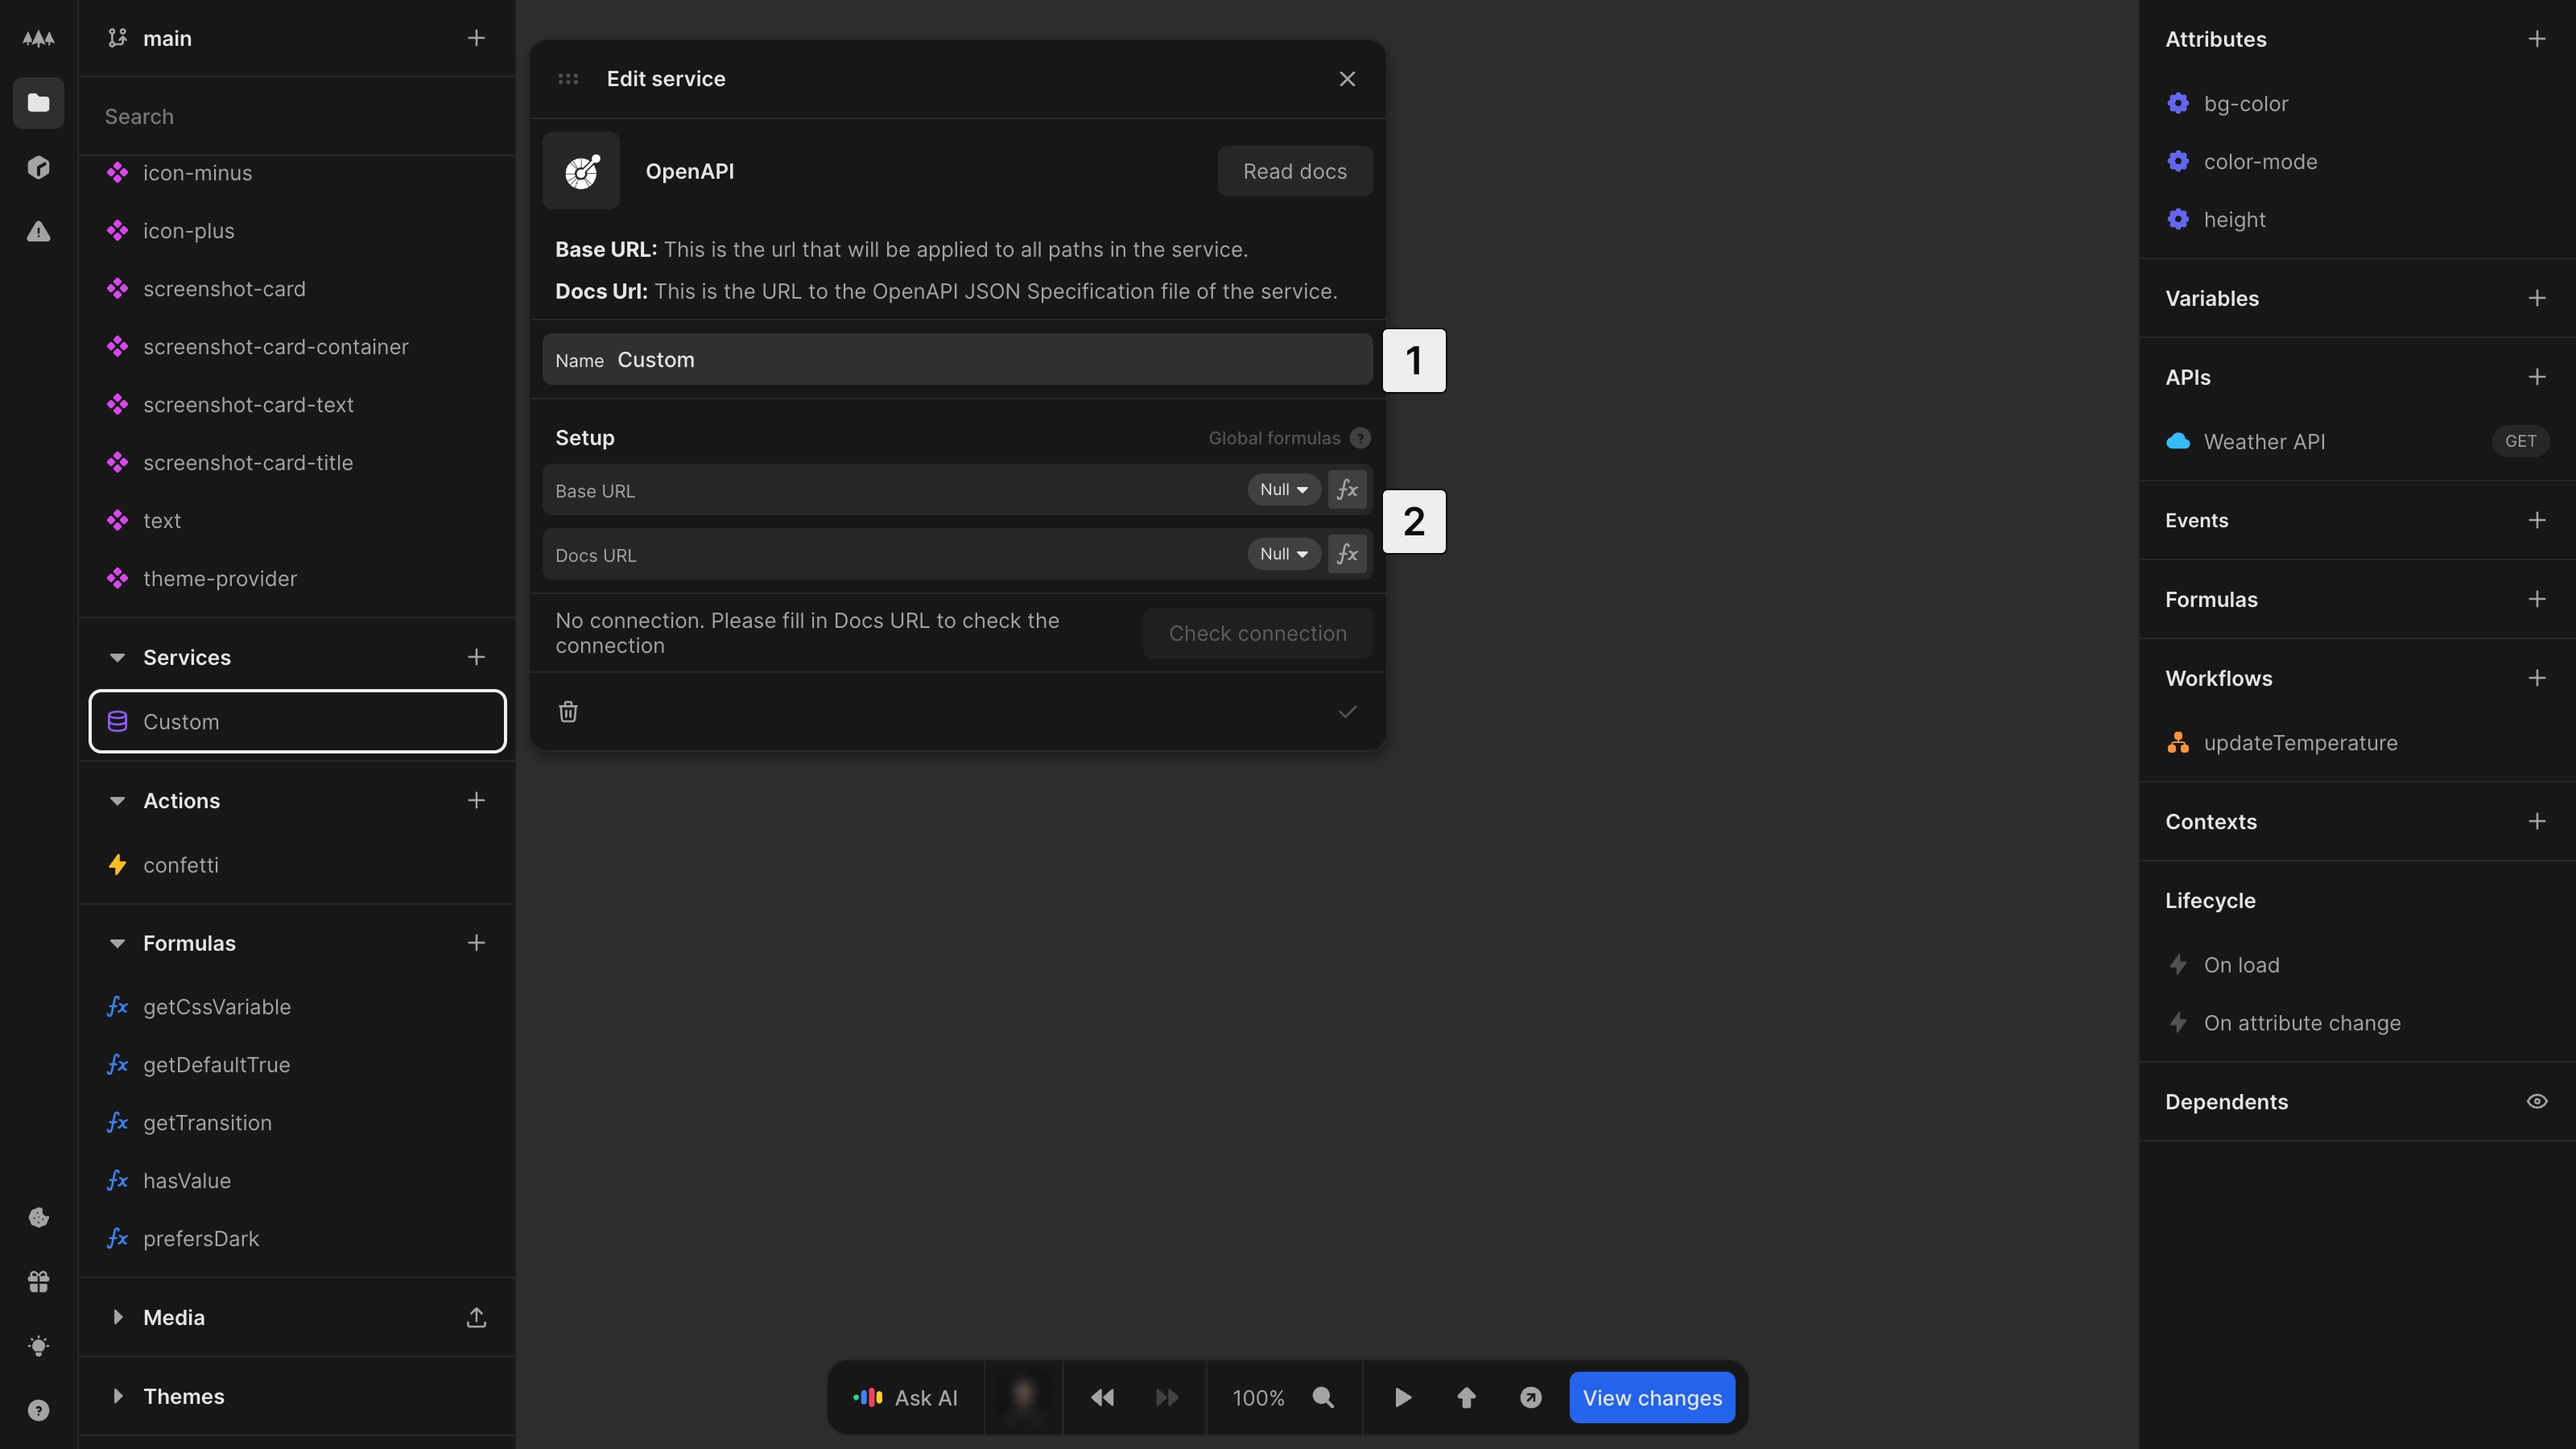
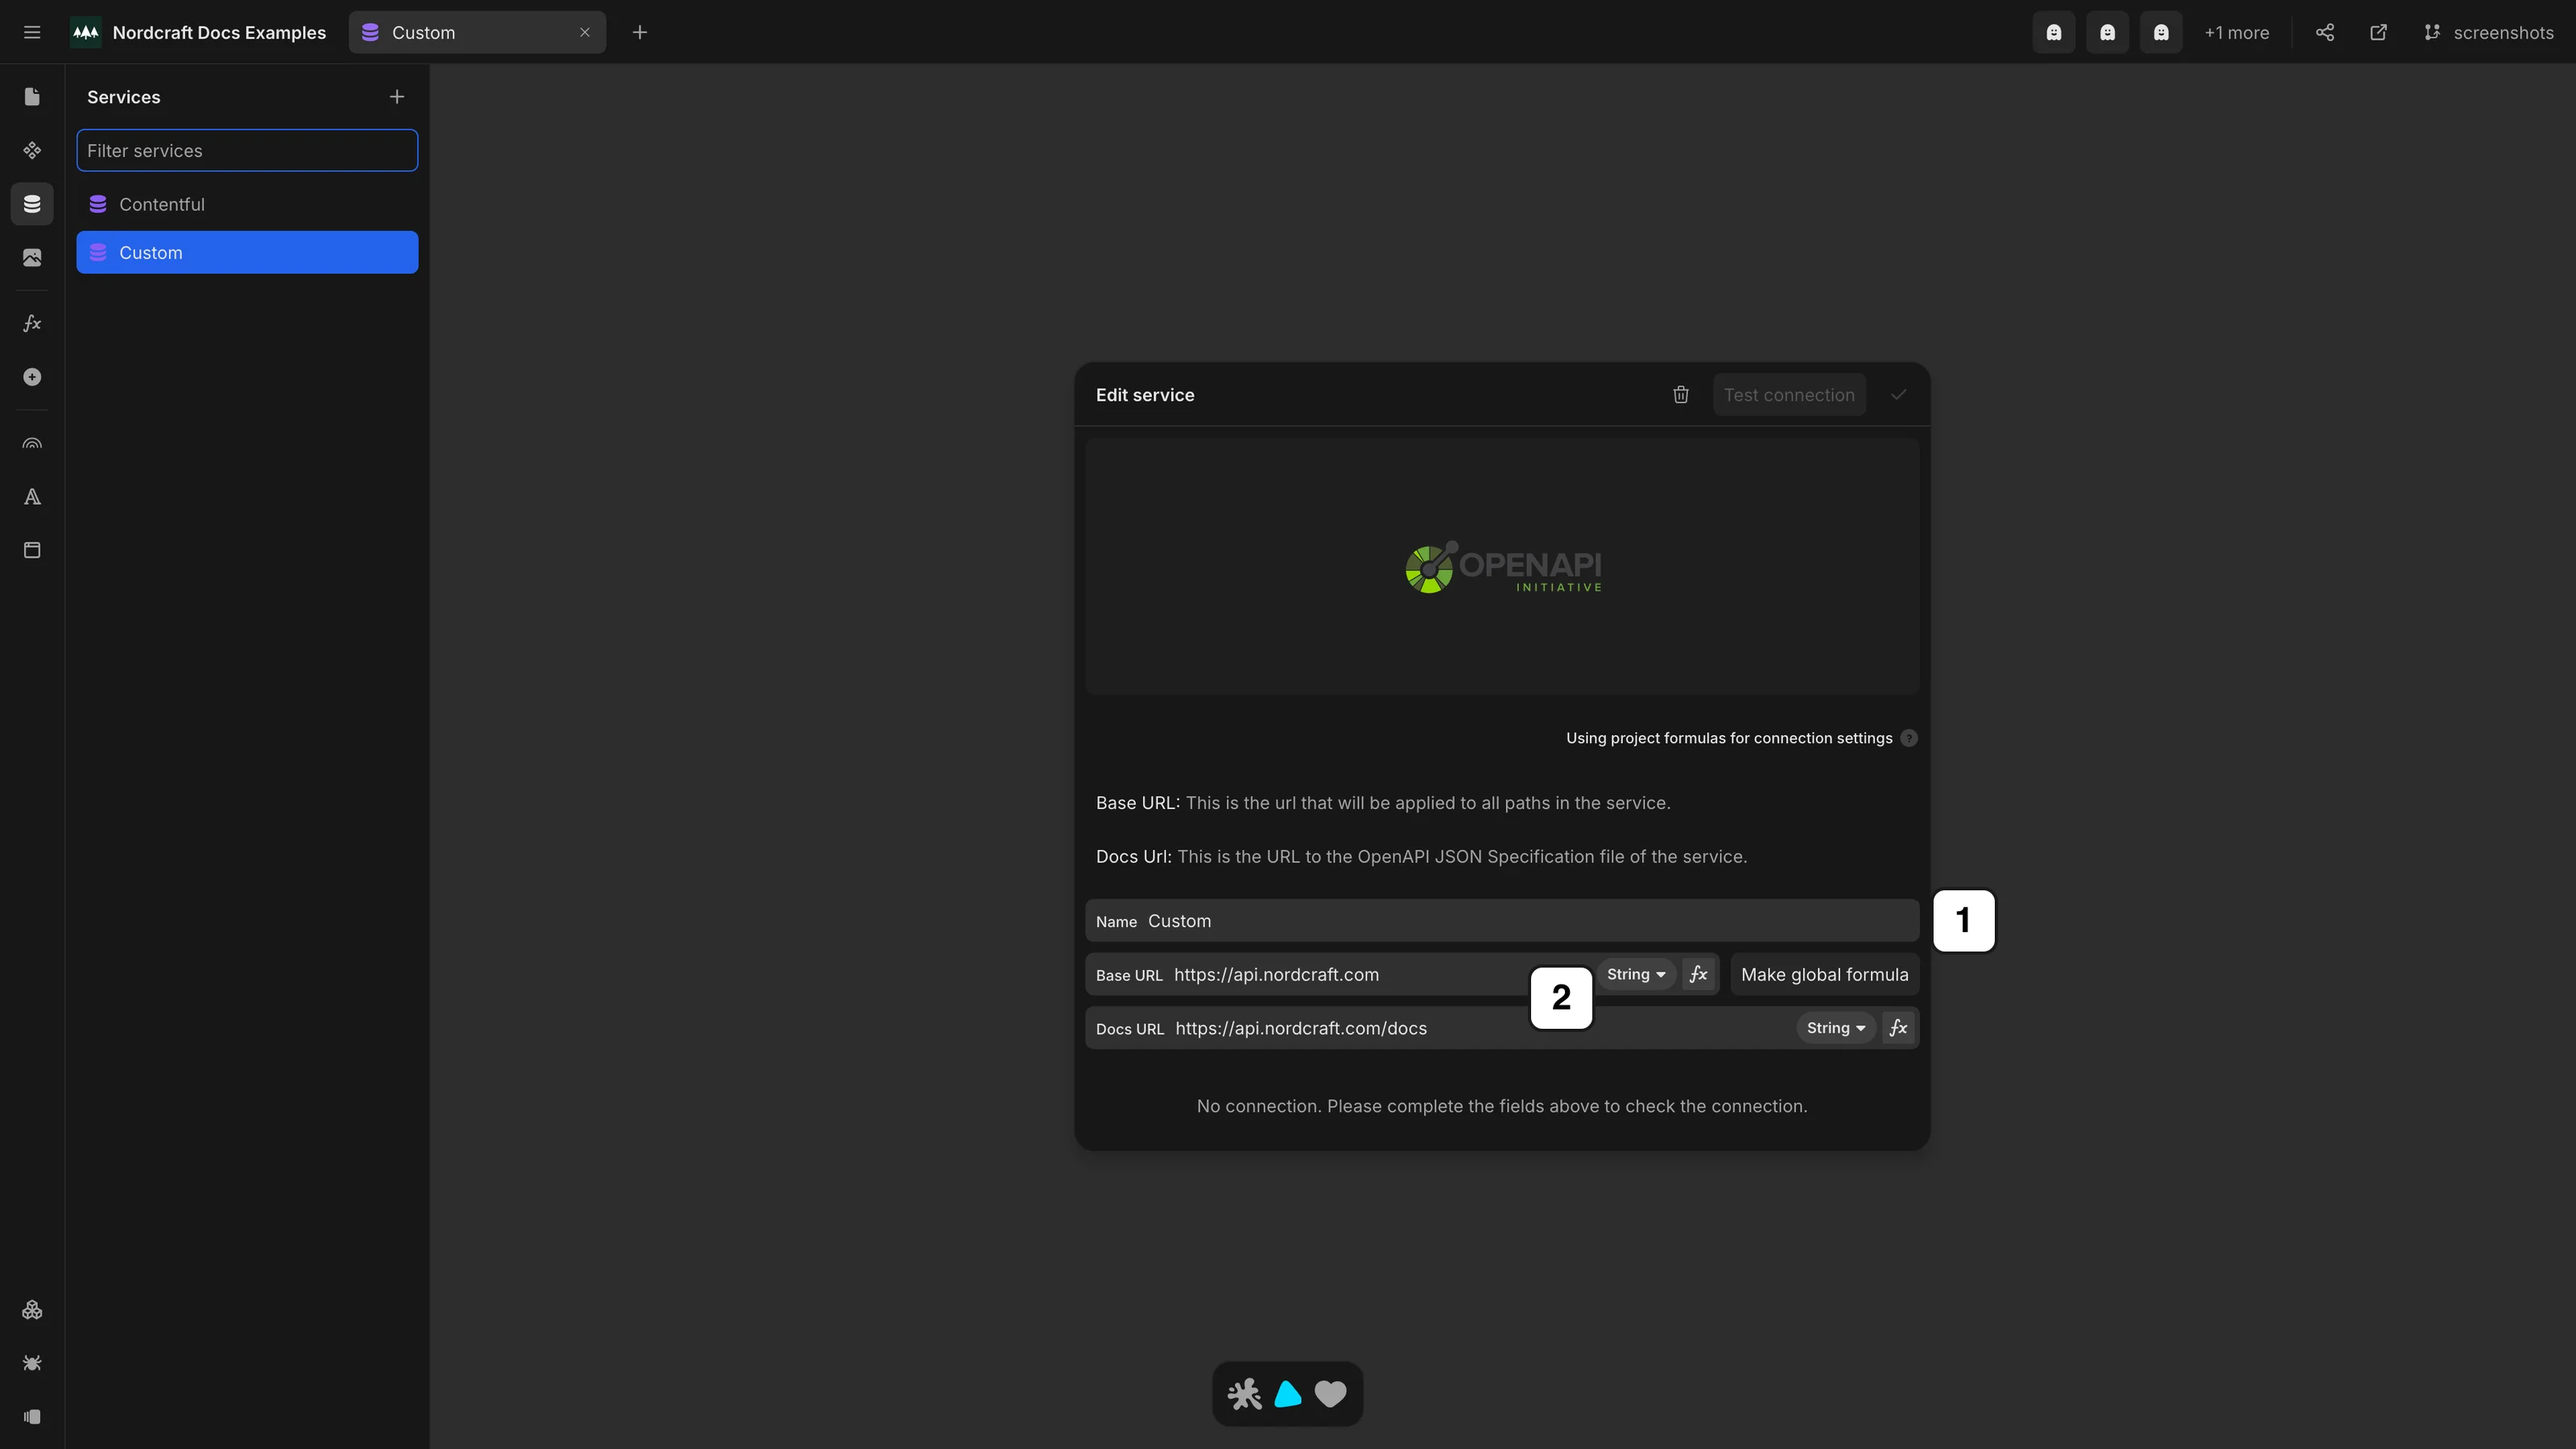
More screenshots

diff --git a/scripts/capture-screenshots.ts b/scripts/capture-screenshots.ts
@@ -284,17 +284,13 @@ export const TARGETS: ScreenshotTarget[] = [
     id: 'add-a-service-from-project-sidebar',
     name: 'add-a-service-from-project-sidebar',
     outputDir: 'docs/connecting-data/services',
-    path: '/projects/docs_examples/branches/screenshots/components/screenshot-page?canvas-width=800&canvas-height=800&leftpanel=services',
+    path: '/projects/docs_examples/branches/screenshots/components/card?mode=design&canvas-tool=select&canvas-width=800&rightpanel=style',
     description: 'Add service dialog open from services drawer',
     setup: async (page: Page) => {
       await page.waitForTimeout(500)
-      await page.evaluate(() => {
-        const btn = document.querySelector(
-          '[class*="sidebar-files:vz7XXhB7lnqyN7Z0ei9qX"]',
-        ) as HTMLElement
-        btn?.click()
-      })
-      await page.waitForTimeout(800)
+      await page.getByRole('button', { name: 'Services' }).click()
+      await page.locator('#sidebar-files-create-services').click()
+      await page.waitForTimeout(500)
     },
   },
 
@@ -303,11 +299,18 @@ export const TARGETS: ScreenshotTarget[] = [
     id: 'add-a-service-from-api-panel',
     name: 'add-a-service-from-api-panel',
     outputDir: 'docs/connecting-data/services',
-    path: '/projects/docs_examples/branches/screenshots/components/screenshot-page?canvas-width=800&canvas-height=800&selection=apis',
+    path: '/projects/docs_examples/branches/screenshots/components/screenshot-page?mode=design&canvas-tool=select&canvas-width=800&rightpanel=style',
     description: 'Connect service from API panel',
     setup: async (page: Page) => {
       await page.waitForTimeout(500)
+      await page.getByRole('button', { name: 'Connect API' }).click()
+      await page.getByRole('button', { name: 'Connect new service' }).click()
+      await page.waitForTimeout(300)
     },
+    annotations: [
+      { type: 'badge', x: 643, y: 82, text: '1' },
+      { type: 'badge', x: 194, y: 17, text: '2' },
+    ],
   },
 
   // Configure Supabase service
@@ -357,22 +360,15 @@ export const TARGETS: ScreenshotTarget[] = [
     id: 'configure-custom-service',
     name: 'configure-custom-service',
     outputDir: 'docs/connecting-data/services',
-    path: '/projects/docs_examples/branches/screenshots/components/screenshot-page?canvas-width=800&canvas-height=800&leftpanel=services',
+    path: '/projects/docs_examples/branches/screenshots/services/Custom?mode=design&canvas-tool=select&canvas-width=800&leftpanel=services&rightpanel=style',
     description: 'Configure OpenAPI / custom service dialog',
     setup: async (page: Page) => {
       await page.waitForTimeout(500)
-      await page.evaluate(() => {
-        const btn = document.querySelector(
-          '[class*="sidebar-files:vz7XXhB7lnqyN7Z0ei9qX"]',
-        ) as HTMLElement
-        btn?.click()
-      })
-      await page.waitForTimeout(800)
-      await page
-        .click('button:has-text("OpenAPI"), button:has-text("Custom")')
-        .catch(() => {})
-      await page.waitForTimeout(800)
     },
+    annotations: [
+      { type: 'badge', x: 600, y: 276, text: '1' },
+      { type: 'badge', x: 475, y: 300, text: '2' },
+    ],
   },
 
   // Detach service
